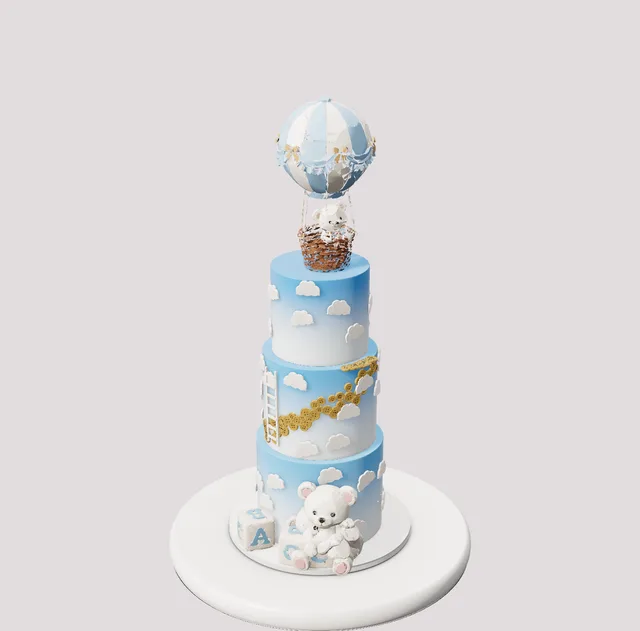
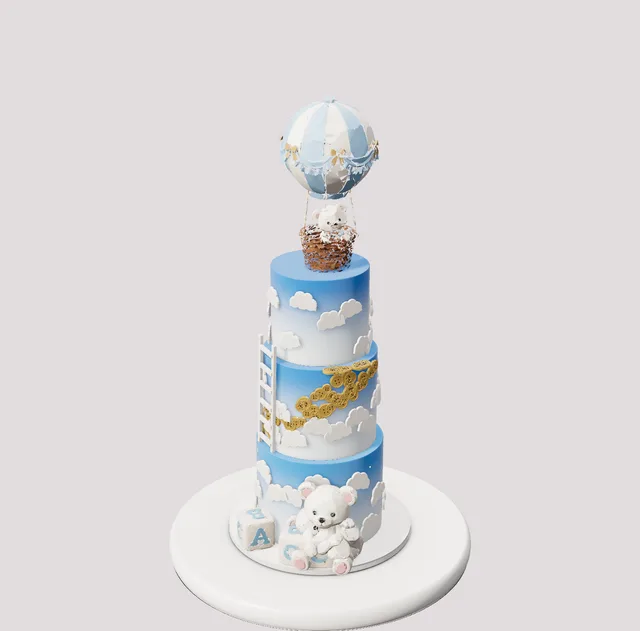
Baby sky: deeper airbrushed sky, more clouds, tall ladder and a wider gold button slope
Claude-Session: https://claude.ai/code/session_016sN14hzH19WJ5zrp8o2QGp

Changed region(s): [[0.4062, 0.2108, 0.625, 0.8431]]

diff --git a/studio.html b/studio.html
@@ -1684,9 +1684,9 @@ THEMES.unshift(
   newTier(7,3.8,{color:'#fbf8f2',finish:'fondant',side:'strings',pipe:'#c98a73',top:'pearls',pipe2:'#c98a73',bottom:'none',decor:[DC('mx_brooch','band',1,{size:170,rot:55,y:.6})]}),
   newTier(6,3.8,{color:'#fbf8f2',finish:'fondant',side:'strings',pipe:'#c98a73',top:'pearls',pipe2:'#c98a73',bottom:'none',decor:[DC('mx_brooch','band',1,{size:140,rot:55,y:.8})]})]}},
  {key:'sig_babysky',name:'Up, Up And Away Bears',tag:SIG,blurb:'Three tall tiers airbrushed from pale sky to bright blue, covered in fondant clouds, with a ladder, a pile of gold buttons, teddy bears and ABC blocks, and a bear in a hot air balloon on top.',d:{board:'white',boardColor:'#e9eaec',topper:'none',tiers:[
-  newTier(8.6,6.6,{color:'#e6f1f7',finish:'fondant',ombre:true,ombreColor:'#5aaee8',top:'none',bottom:'none',decor:[DC('clouds','scatter',22,{color:'#fbf7f1',size:190}),DC('dragees','scatter',30,{color:'#fbf7f1',size:60}),DC('mx_teddy_seated','cluster',1,{size:560,where:'board',face:55,seed:4}),DC('mx_teddy_reclining','cluster',1,{size:520,where:'board',face:55,seed:12}),DC('mx_block_c','cluster',3,{size:230,where:'board',seed:21})]}),
-  newTier(7.6,6.4,{color:'#e6f1f7',finish:'fondant',ombre:true,ombreColor:'#4aa6e6',top:'none',bottom:'none',decor:[DC('clouds','scatter',18,{color:'#fbf7f1',size:190}),DC('buttons','cascade',70,{color:'#b8913f',rot:-75,size:180,wide:1.4}),DC('ladder','band',1,{color:'#fbf7f1',rot:110,size:240})]}),
-  newTier(6.4,5.8,{color:'#e6f1f7',finish:'fondant',ombre:true,ombreColor:'#3c9be0',top:'none',bottom:'none',decor:[DC('clouds','scatter',14,{color:'#fbf7f1',size:180}),DC('mx_teddy_balloon','cluster',1,{size:1100,center:true,face:55})]})]}},
+  newTier(8.6,6.6,{color:'#e6f1f7',finish:'fondant',ombre:true,ombreColor:'#2f8fd8',top:'none',bottom:'none',decor:[DC('clouds','scatter',24,{color:'#fbf7f1',size:220}),DC('dragees','scatter',30,{color:'#fbf7f1',size:60}),DC('mx_teddy_seated','cluster',1,{size:560,where:'board',face:55,seed:4}),DC('mx_teddy_reclining','cluster',1,{size:520,where:'board',face:55,seed:12}),DC('mx_block_c','cluster',3,{size:230,where:'board',seed:21})]}),
+  newTier(7.6,6.4,{color:'#e6f1f7',finish:'fondant',ombre:true,ombreColor:'#2a86d2',top:'none',bottom:'none',decor:[DC('clouds','scatter',20,{color:'#fbf7f1',size:220}),DC('buttons','cascade',90,{color:'#b8913f',rot:-60,size:220,wide:1.6}),DC('ladder','band',1,{color:'#fbf7f1',rot:118,size:420})]}),
+  newTier(6.4,5.8,{color:'#e6f1f7',finish:'fondant',ombre:true,ombreColor:'#257fcc',top:'none',bottom:'none',decor:[DC('clouds','scatter',16,{color:'#fbf7f1',size:210}),DC('mx_teddy_balloon','cluster',1,{size:1100,center:true,face:55})]})]}},
  {key:'sig_sports',name:'All-Star Sports Number',tag:SIG,blurb:'A number 2 cut into sports zones: a blue baseball corner with a baseball and bat, a green soccer field with piped grass, a wood basketball court with a hoop and piped net, and a football field with yard lines and numbers, on an orange board.',d:{cakeType:'number',number:{text:'2',height:13,layers:2,cake:'vanilla',cream:'#3f8f45',style:'frosted',zones:[[0,.42,0,.45,'#2f6fd0'],[0,.42,.45,1,'#4fa84a'],[.42,.74,0,1,'#d6a15a'],[.74,1,0,1,'#3f8f45',11]]},board:'white',boardTint:'#d4621a',numBoard:'round',topper:'none',tiers:[
   newTier(8,4,{decor:[DC('grasstuft','cluster',1,{color:'#3f9a45',size:260,at:[.45,-.55]}),DC('soccerball','cluster',1,{size:280,at:[.45,-.55]}),DC('baseball2','cluster',1,{size:270,at:[-.5,-.72]}),DC('bat','cluster',1,{size:260,at:[-.05,-.86],yaw:-25}),DC('hoopnet','cluster',1,{color:'#d62839',size:230,at:[-.15,.12],yaw:20}),DC('hoopball','cluster',1,{size:270,at:[-.15,.12]}),DC('football','cluster',1,{size:270,at:[.5,.7],yaw:10}),DC('mx_glove','cluster',1,{size:300,at:[-.7,-.4],yaw:30}),DC('yardnums','cluster',1,{color:'#fbf7f1',size:120,at:[-.05,.93],yaw:0})]})]}},
  {key:'sig_blocks',name:'Building Block Number',tag:SIG,blurb:'A sunny yellow number 6 with a blue window, a mosaic wall of toy bricks around the side, rainbow sprinkles and bricks on top.',d:{cakeType:'number',number:{text:'6',height:13,layers:3,cake:'vanilla',cream:'#f6c919',style:'frosted',wall:['#e8475f','#2f6fd0','#f2c230','#5cc06c','#2f6fd0','#e8475f','#2a7a3a'],wallH:.95,holeFill:'#2f6fd0'},board:'white',boardTint:'#34405e',numBoard:'round',topper:'none',tiers:[

diff --git a/tools/signature-decor.js b/tools/signature-decor.js
@@ -349,9 +349,9 @@ THEMES.unshift(
   newTier(7,3.8,{color:'#fbf8f2',finish:'fondant',side:'strings',pipe:'#c98a73',top:'pearls',pipe2:'#c98a73',bottom:'none',decor:[DC('mx_brooch','band',1,{size:170,rot:55,y:.6})]}),
   newTier(6,3.8,{color:'#fbf8f2',finish:'fondant',side:'strings',pipe:'#c98a73',top:'pearls',pipe2:'#c98a73',bottom:'none',decor:[DC('mx_brooch','band',1,{size:140,rot:55,y:.8})]})]}},
  {key:'sig_babysky',name:'Up, Up And Away Bears',tag:SIG,blurb:'Three tall tiers airbrushed from pale sky to bright blue, covered in fondant clouds, with a ladder, a pile of gold buttons, teddy bears and ABC blocks, and a bear in a hot air balloon on top.',d:{board:'white',boardColor:'#e9eaec',topper:'none',tiers:[
-  newTier(8.6,6.6,{color:'#e6f1f7',finish:'fondant',ombre:true,ombreColor:'#5aaee8',top:'none',bottom:'none',decor:[DC('clouds','scatter',22,{color:'#fbf7f1',size:190}),DC('dragees','scatter',30,{color:'#fbf7f1',size:60}),DC('mx_teddy_seated','cluster',1,{size:560,where:'board',face:55,seed:4}),DC('mx_teddy_reclining','cluster',1,{size:520,where:'board',face:55,seed:12}),DC('mx_block_c','cluster',3,{size:230,where:'board',seed:21})]}),
-  newTier(7.6,6.4,{color:'#e6f1f7',finish:'fondant',ombre:true,ombreColor:'#4aa6e6',top:'none',bottom:'none',decor:[DC('clouds','scatter',18,{color:'#fbf7f1',size:190}),DC('buttons','cascade',70,{color:'#b8913f',rot:-75,size:180,wide:1.4}),DC('ladder','band',1,{color:'#fbf7f1',rot:110,size:240})]}),
-  newTier(6.4,5.8,{color:'#e6f1f7',finish:'fondant',ombre:true,ombreColor:'#3c9be0',top:'none',bottom:'none',decor:[DC('clouds','scatter',14,{color:'#fbf7f1',size:180}),DC('mx_teddy_balloon','cluster',1,{size:1100,center:true,face:55})]})]}},
+  newTier(8.6,6.6,{color:'#e6f1f7',finish:'fondant',ombre:true,ombreColor:'#2f8fd8',top:'none',bottom:'none',decor:[DC('clouds','scatter',24,{color:'#fbf7f1',size:220}),DC('dragees','scatter',30,{color:'#fbf7f1',size:60}),DC('mx_teddy_seated','cluster',1,{size:560,where:'board',face:55,seed:4}),DC('mx_teddy_reclining','cluster',1,{size:520,where:'board',face:55,seed:12}),DC('mx_block_c','cluster',3,{size:230,where:'board',seed:21})]}),
+  newTier(7.6,6.4,{color:'#e6f1f7',finish:'fondant',ombre:true,ombreColor:'#2a86d2',top:'none',bottom:'none',decor:[DC('clouds','scatter',20,{color:'#fbf7f1',size:220}),DC('buttons','cascade',90,{color:'#b8913f',rot:-60,size:220,wide:1.6}),DC('ladder','band',1,{color:'#fbf7f1',rot:118,size:420})]}),
+  newTier(6.4,5.8,{color:'#e6f1f7',finish:'fondant',ombre:true,ombreColor:'#257fcc',top:'none',bottom:'none',decor:[DC('clouds','scatter',16,{color:'#fbf7f1',size:210}),DC('mx_teddy_balloon','cluster',1,{size:1100,center:true,face:55})]})]}},
  {key:'sig_sports',name:'All-Star Sports Number',tag:SIG,blurb:'A number 2 cut into sports zones: a blue baseball corner with a baseball and bat, a green soccer field with piped grass, a wood basketball court with a hoop and piped net, and a football field with yard lines and numbers, on an orange board.',d:{cakeType:'number',number:{text:'2',height:13,layers:2,cake:'vanilla',cream:'#3f8f45',style:'frosted',zones:[[0,.42,0,.45,'#2f6fd0'],[0,.42,.45,1,'#4fa84a'],[.42,.74,0,1,'#d6a15a'],[.74,1,0,1,'#3f8f45',11]]},board:'white',boardTint:'#d4621a',numBoard:'round',topper:'none',tiers:[
   newTier(8,4,{decor:[DC('grasstuft','cluster',1,{color:'#3f9a45',size:260,at:[.45,-.55]}),DC('soccerball','cluster',1,{size:280,at:[.45,-.55]}),DC('baseball2','cluster',1,{size:270,at:[-.5,-.72]}),DC('bat','cluster',1,{size:260,at:[-.05,-.86],yaw:-25}),DC('hoopnet','cluster',1,{color:'#d62839',size:230,at:[-.15,.12],yaw:20}),DC('hoopball','cluster',1,{size:270,at:[-.15,.12]}),DC('football','cluster',1,{size:270,at:[.5,.7],yaw:10}),DC('mx_glove','cluster',1,{size:300,at:[-.7,-.4],yaw:30}),DC('yardnums','cluster',1,{color:'#fbf7f1',size:120,at:[-.05,.93],yaw:0})]})]}},
  {key:'sig_blocks',name:'Building Block Number',tag:SIG,blurb:'A sunny yellow number 6 with a blue window, a mosaic wall of toy bricks around the side, rainbow sprinkles and bricks on top.',d:{cakeType:'number',number:{text:'6',height:13,layers:3,cake:'vanilla',cream:'#f6c919',style:'frosted',wall:['#e8475f','#2f6fd0','#f2c230','#5cc06c','#2f6fd0','#e8475f','#2a7a3a'],wallH:.95,holeFill:'#2f6fd0'},board:'white',boardTint:'#34405e',numBoard:'round',topper:'none',tiers:[

diff --git a/tools/sig-themes.js b/tools/sig-themes.js
@@ -40,9 +40,9 @@ THEMES.unshift(
   newTier(7,3.8,{color:'#fbf8f2',finish:'fondant',side:'strings',pipe:'#c98a73',top:'pearls',pipe2:'#c98a73',bottom:'none',decor:[DC('mx_brooch','band',1,{size:170,rot:55,y:.6})]}),
   newTier(6,3.8,{color:'#fbf8f2',finish:'fondant',side:'strings',pipe:'#c98a73',top:'pearls',pipe2:'#c98a73',bottom:'none',decor:[DC('mx_brooch','band',1,{size:140,rot:55,y:.8})]})]}},
  {key:'sig_babysky',name:'Up, Up And Away Bears',tag:SIG,blurb:'Three tall tiers airbrushed from pale sky to bright blue, covered in fondant clouds, with a ladder, a pile of gold buttons, teddy bears and ABC blocks, and a bear in a hot air balloon on top.',d:{board:'white',boardColor:'#e9eaec',topper:'none',tiers:[
-  newTier(8.6,6.6,{color:'#e6f1f7',finish:'fondant',ombre:true,ombreColor:'#5aaee8',top:'none',bottom:'none',decor:[DC('clouds','scatter',22,{color:'#fbf7f1',size:190}),DC('dragees','scatter',30,{color:'#fbf7f1',size:60}),DC('mx_teddy_seated','cluster',1,{size:560,where:'board',face:55,seed:4}),DC('mx_teddy_reclining','cluster',1,{size:520,where:'board',face:55,seed:12}),DC('mx_block_c','cluster',3,{size:230,where:'board',seed:21})]}),
-  newTier(7.6,6.4,{color:'#e6f1f7',finish:'fondant',ombre:true,ombreColor:'#4aa6e6',top:'none',bottom:'none',decor:[DC('clouds','scatter',18,{color:'#fbf7f1',size:190}),DC('buttons','cascade',70,{color:'#b8913f',rot:-75,size:180,wide:1.4}),DC('ladder','band',1,{color:'#fbf7f1',rot:110,size:240})]}),
-  newTier(6.4,5.8,{color:'#e6f1f7',finish:'fondant',ombre:true,ombreColor:'#3c9be0',top:'none',bottom:'none',decor:[DC('clouds','scatter',14,{color:'#fbf7f1',size:180}),DC('mx_teddy_balloon','cluster',1,{size:1100,center:true,face:55})]})]}},
+  newTier(8.6,6.6,{color:'#e6f1f7',finish:'fondant',ombre:true,ombreColor:'#2f8fd8',top:'none',bottom:'none',decor:[DC('clouds','scatter',24,{color:'#fbf7f1',size:220}),DC('dragees','scatter',30,{color:'#fbf7f1',size:60}),DC('mx_teddy_seated','cluster',1,{size:560,where:'board',face:55,seed:4}),DC('mx_teddy_reclining','cluster',1,{size:520,where:'board',face:55,seed:12}),DC('mx_block_c','cluster',3,{size:230,where:'board',seed:21})]}),
+  newTier(7.6,6.4,{color:'#e6f1f7',finish:'fondant',ombre:true,ombreColor:'#2a86d2',top:'none',bottom:'none',decor:[DC('clouds','scatter',20,{color:'#fbf7f1',size:220}),DC('buttons','cascade',90,{color:'#b8913f',rot:-60,size:220,wide:1.6}),DC('ladder','band',1,{color:'#fbf7f1',rot:118,size:420})]}),
+  newTier(6.4,5.8,{color:'#e6f1f7',finish:'fondant',ombre:true,ombreColor:'#257fcc',top:'none',bottom:'none',decor:[DC('clouds','scatter',16,{color:'#fbf7f1',size:210}),DC('mx_teddy_balloon','cluster',1,{size:1100,center:true,face:55})]})]}},
  {key:'sig_sports',name:'All-Star Sports Number',tag:SIG,blurb:'A number 2 cut into sports zones: a blue baseball corner with a baseball and bat, a green soccer field with piped grass, a wood basketball court with a hoop and piped net, and a football field with yard lines and numbers, on an orange board.',d:{cakeType:'number',number:{text:'2',height:13,layers:2,cake:'vanilla',cream:'#3f8f45',style:'frosted',zones:[[0,.42,0,.45,'#2f6fd0'],[0,.42,.45,1,'#4fa84a'],[.42,.74,0,1,'#d6a15a'],[.74,1,0,1,'#3f8f45',11]]},board:'white',boardTint:'#d4621a',numBoard:'round',topper:'none',tiers:[
   newTier(8,4,{decor:[DC('grasstuft','cluster',1,{color:'#3f9a45',size:260,at:[.45,-.55]}),DC('soccerball','cluster',1,{size:280,at:[.45,-.55]}),DC('baseball2','cluster',1,{size:270,at:[-.5,-.72]}),DC('bat','cluster',1,{size:260,at:[-.05,-.86],yaw:-25}),DC('hoopnet','cluster',1,{color:'#d62839',size:230,at:[-.15,.12],yaw:20}),DC('hoopball','cluster',1,{size:270,at:[-.15,.12]}),DC('football','cluster',1,{size:270,at:[.5,.7],yaw:10}),DC('mx_glove','cluster',1,{size:300,at:[-.7,-.4],yaw:30}),DC('yardnums','cluster',1,{color:'#fbf7f1',size:120,at:[-.05,.93],yaw:0})]})]}},
  {key:'sig_blocks',name:'Building Block Number',tag:SIG,blurb:'A sunny yellow number 6 with a blue window, a mosaic wall of toy bricks around the side, rainbow sprinkles and bricks on top.',d:{cakeType:'number',number:{text:'6',height:13,layers:3,cake:'vanilla',cream:'#f6c919',style:'frosted',wall:['#e8475f','#2f6fd0','#f2c230','#5cc06c','#2f6fd0','#e8475f','#2a7a3a'],wallH:.95,holeFill:'#2f6fd0'},board:'white',boardTint:'#34405e',numBoard:'round',topper:'none',tiers:[
